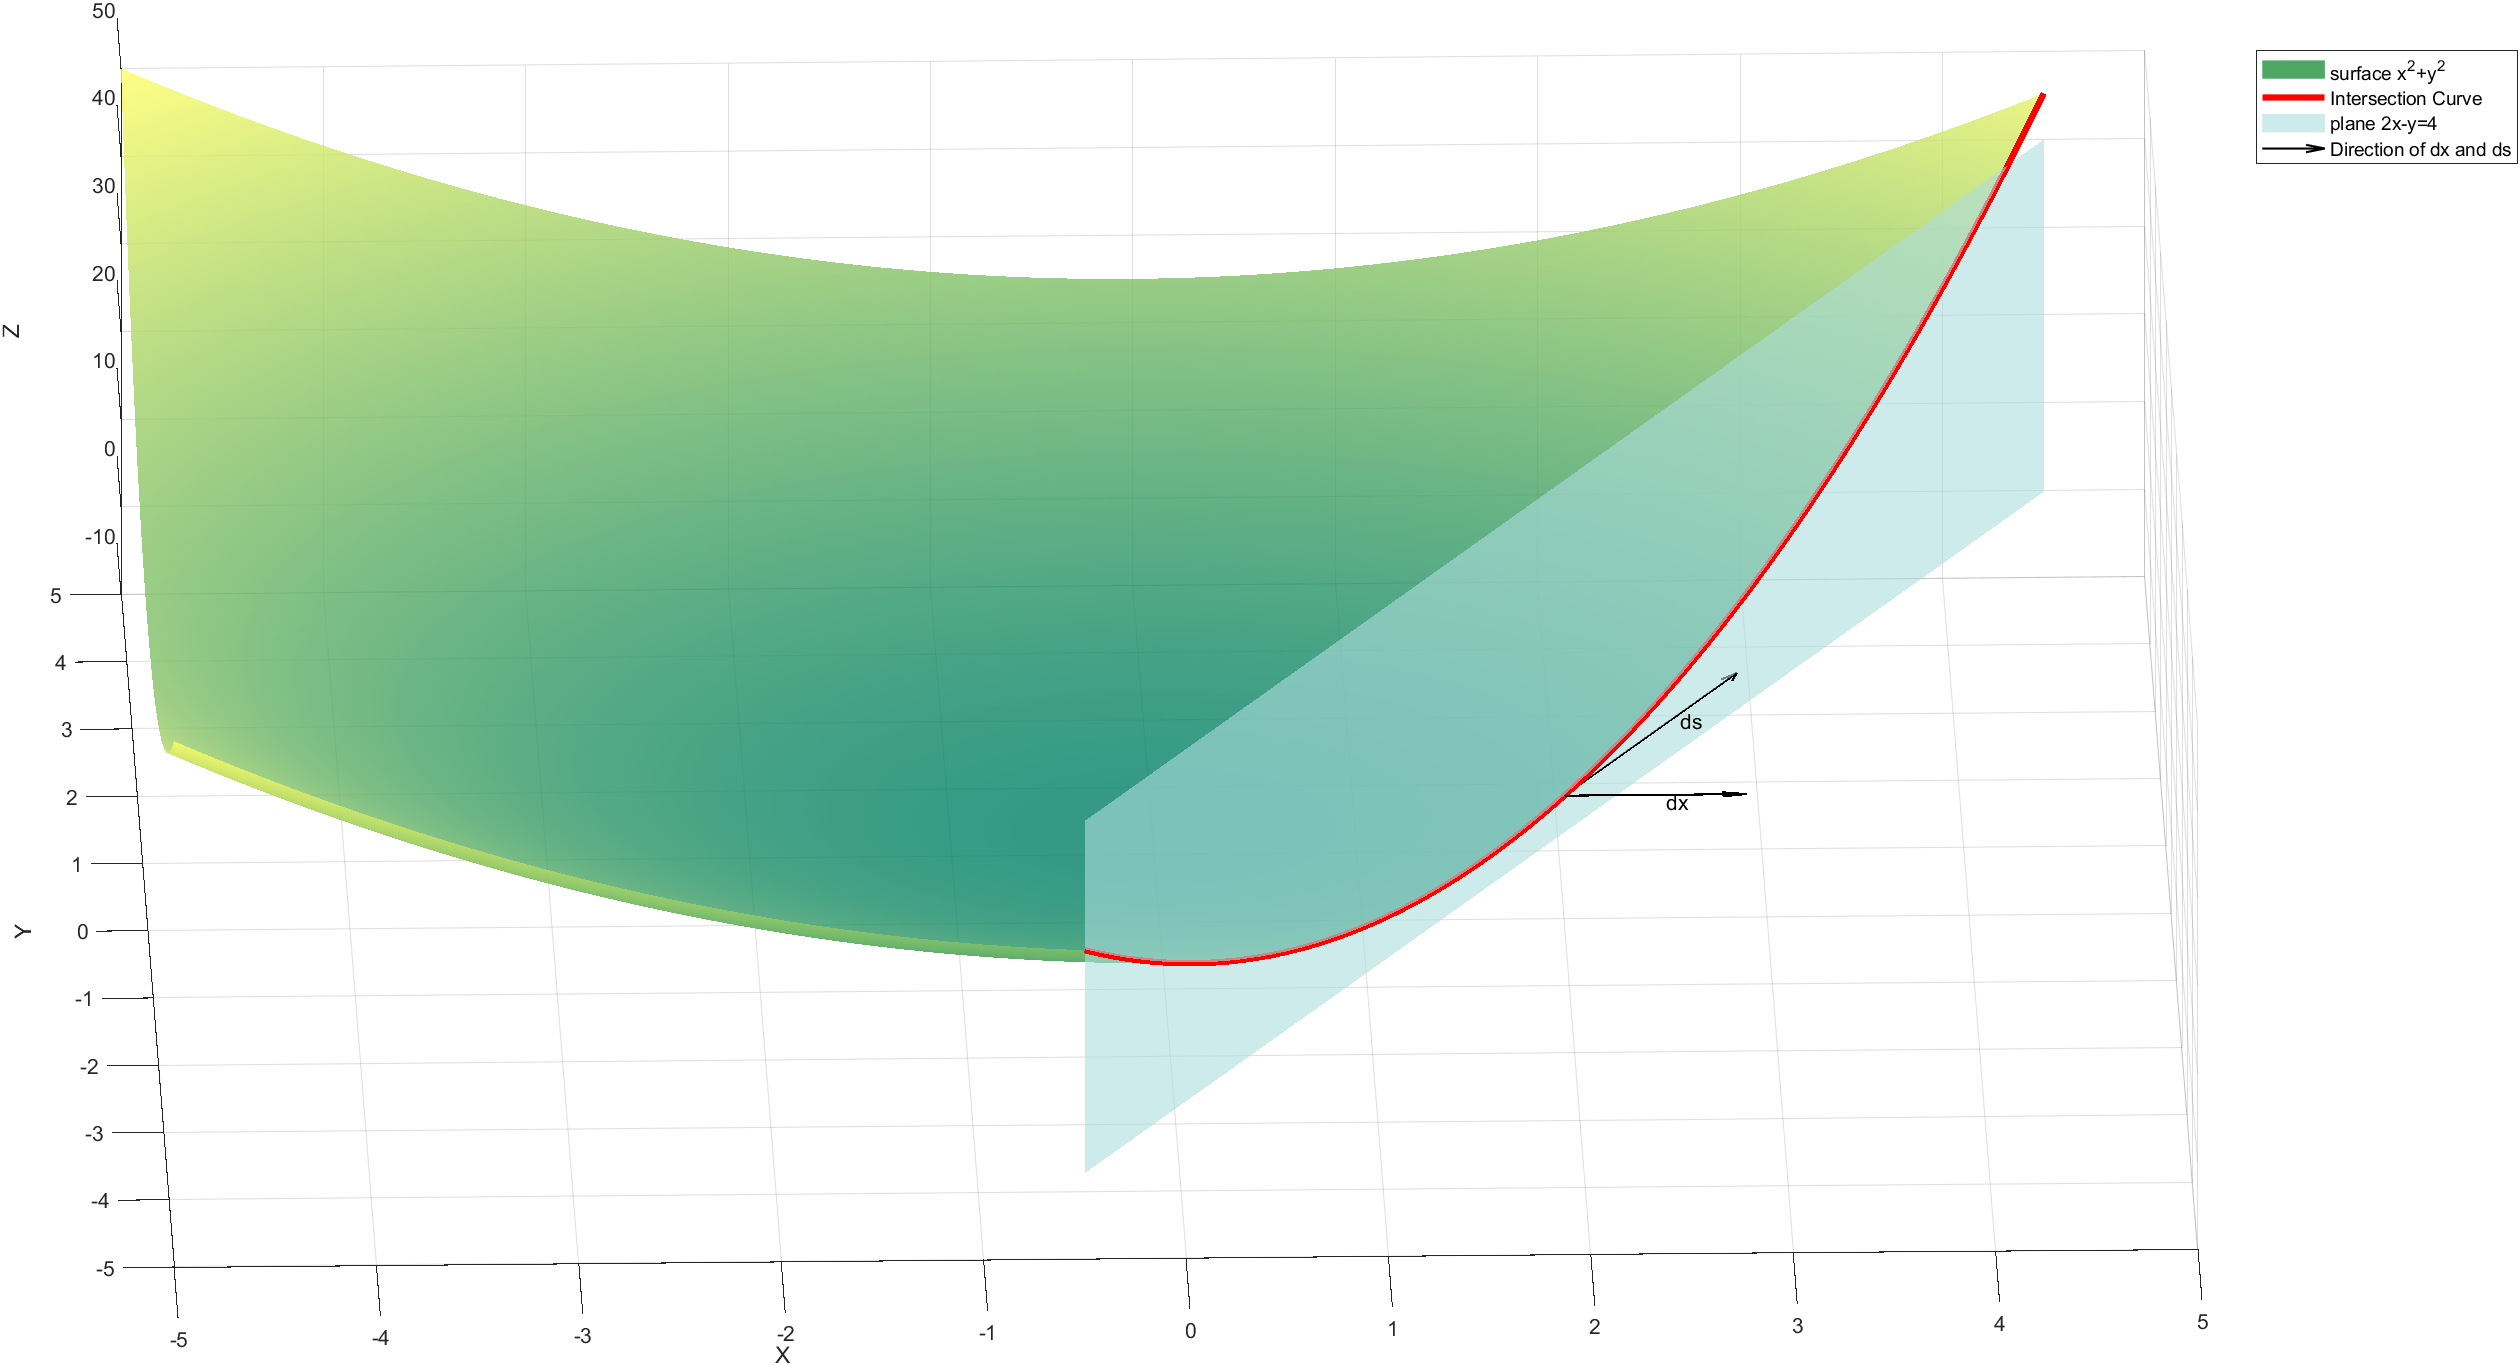
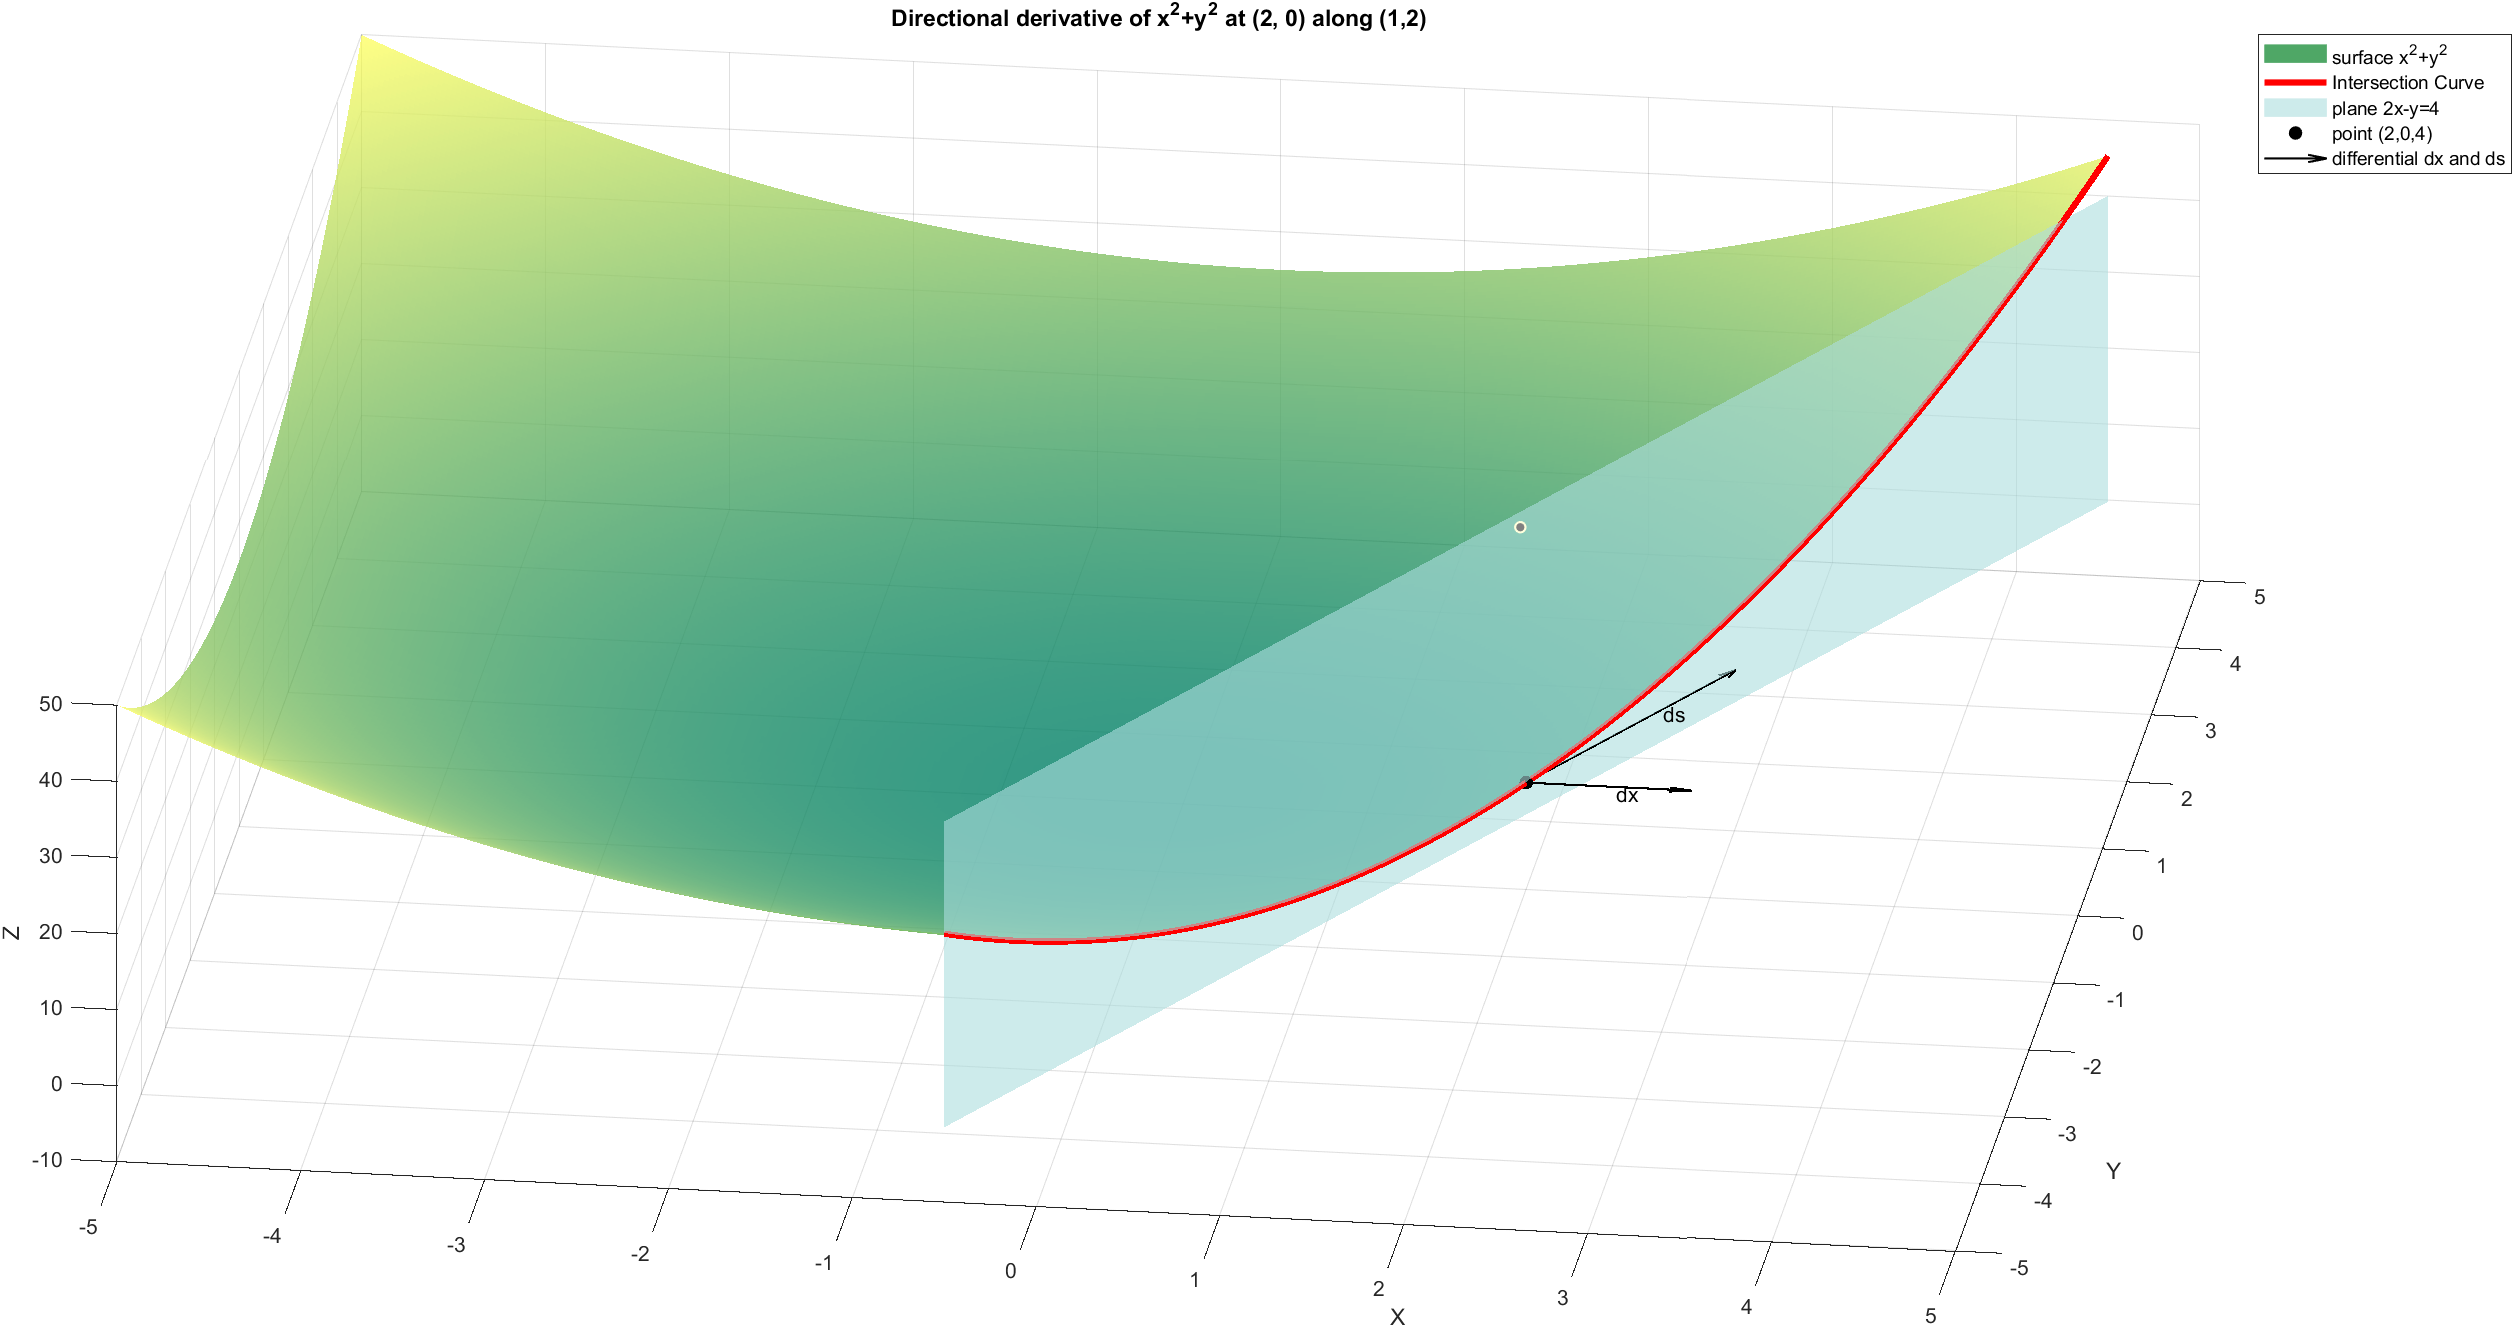
Uploaded from workPC

diff --git a/illustration/projector.m b/illustration/projector.m
@@ -1,0 +1,53 @@
+% This is an illustration to show a special transformation 
+% called orthogonal projection in 3D space. 
+% We generate this projection by Q P_{2} Q^{*} 
+% where Q is a unitary matrix and P_{2} is a projection matrix [I_{2} 0; 0 0 0].
+
+% We draw the hyperpane generated by q_{1}, q_{2}, the first two columns of Q, 
+% assume q_{1} = 1/sqrt(3)[1,1,1], q_{2} = [1/sqrt(2), -1/sqrt(2),  0] , q_{3} = [1/sqrt(6), 1/sqrt(6), -2/sqrt(6)].
+
+% And we draw the projection of a point P = [2, 3, 4] onto the hyperplane.
+
+a = [1, 1, 1]/sqrt(3); % replace 'q1' by 'a' for brevity
+b = [1, -1, 0]/sqrt(2); 
+c = [1, 1, -2]/sqrt(6);
+
+Q = [a; b; c]';
+
+P2 = diag([1 1 0]);
+P = Q*P2*Q';
+
+fprintf("Projection Matrix P:\n");
+disp(P);
+
+pt = [1; 2; 6];
+proj_pt = P*pt;
+
+%% Prepare data for illurstration
+
+% given (x,y), we use the relation '(x,y,z) dot (a times b)=0' to
+% determine z such that (x,y,z) lies in the plane spanned by a and b.
+sample = linspace(-1, 6, 10);
+nor_vec = cross(a, b);
+[X, Y] = meshgrid(sample, sample);
+Z = -(nor_vec(1)*X + nor_vec(2)*Y)/nor_vec(3);
+
+figure
+surf(X, Y, Z, 'EdgeColor','none',...
+    'FaceColor', [112 223 224]/255,...
+    'FaceAlpha', 0.5);
+hold on
+
+plot3(pt(1), pt(2), pt(3), 'ro', 'MarkerFaceColor', 'r');
+plot3(proj_pt(1), proj_pt(2), proj_pt(3), 'bs', 'MarkerFaceColor', 'b');
+quiver3(pt(1), pt(2), pt(3), proj_pt(1)-pt(1), proj_pt(2)-pt(2), proj_pt(3)-pt(3));
+
+legend('plane spanned by q_1 and q_2', 'point (1,2,6)', 'projected point', 'projection line');
+xlabel('x');
+ylabel('y');
+title('Orthogonal projection onto the plane')
+axis equal
+
+
+
+

diff --git a/illustration/direction_derivative.m b/illustration/direction_derivative.m
@@ -33,9 +33,9 @@ curve_z = curve_x.^2 + curve_y.^2;
 plot3(curve_x, curve_y, curve_z, 'r', 'LineWidth', 3);
 
 % Plot the plane 2x-y-4=0 in gray style
-plane_X = repmat(curve_x, 300, 1);
+plane_X = repmat(curve_x, 100, 1);
 plane_Y = 2.*plane_X - 4;
-z_range = linspace(-0.2, 40, 300);
+z_range = linspace(-0.2, 40, 100);
 plane_Z = repmat(z_range', 1, size(plane_X, 2));
 
 surf(plane_X, plane_Y, plane_Z, ...
@@ -43,6 +43,7 @@ surf(plane_X, plane_Y, plane_Z, ...
     'EdgeColor', 'none', ... % Remove black edges
     'FaceAlpha', 0.6); %  smaller parameter is more transparent
 
+plot3(2, 0, 4, 'ko', 'MarkerFaceColor', 'k');
 quiver3([2 2], [0 0], [4 4], [1 1], [0 2], [0 0], 'k', 'LineWidth', 1);
 text(2.5, -0.1, 4, 'dx');
 text(2.6, 1.1, 4, 'ds');
@@ -51,5 +52,6 @@ text(2.6, 1.1, 4, 'ds');
 xlabel('X');
 ylabel('Y');
 zlabel('Z');
-legend('surface x^2+y^2', 'Intersection Curve', 'plane 2x-y=4', 'Direction of dx and ds');
+title('Directional derivative of x^2+y^2 at (2, 0) along (1,2)');
+legend('surface x^2+y^2', 'Intersection Curve', 'plane 2x-y=4', 'point (2,0,4)', 'differential dx and ds');
 
